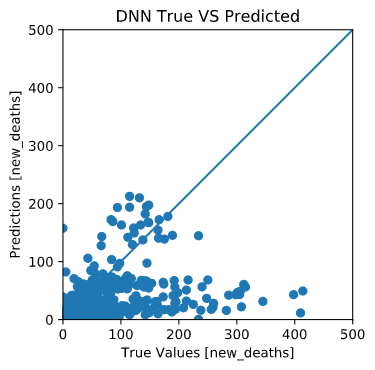
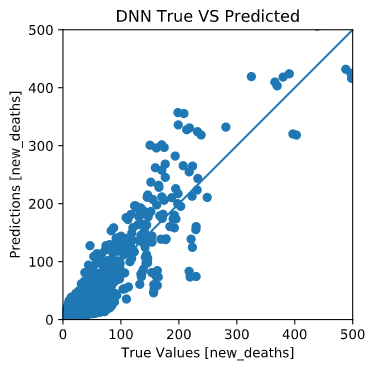
updates readme with final adjustments to supervised learning

diff --git a/README.md b/README.md
@@ -65,11 +65,11 @@ Our goal in the Supervised Learning process is to develop a regression model to 
 
 What we are trying to predict:
 
-![Country 28 Days since 4/1/2020 vs New Deaths](TrainingImages/Country28Trend.png)
+![Country 27 Days since 4/1/2020 vs New Deaths](TrainingImages/Country27Trend.png)
 
-![Country 81 Days since 4/1/2020 vs New Deaths](TrainingImages/Country81Trend.png)
+![Country 75 Days since 4/1/2020 vs New Deaths](TrainingImages/Country75Trend.png)
 
-![Country 200 Days since 4/1/2020 vs New Deaths](TrainingImages/Country200Trend.png)
+![Country 150 Days since 4/1/2020 vs New Deaths](TrainingImages/Country150Trend.png)
 
 We split our data by 80/20 for training and testing respectively. This yields 167 countries for training and 42 countries for testing. 
 
@@ -123,9 +123,9 @@ Finally, let us examine the difference between predicted and real results. First
 |---|---|
 |![Linear True Vs Predicted](ResultsImages/LinearTrueVsPredicted.png)|![DNN True Vs Predicted](ResultsImages/DNNTrueVsPredicted.png)|
 |![Linear Prediction Error](ResultsImages/LinearPredictionError.png)|![DNN Prediction Error](ResultsImages/DNNPredictionError.png)|
-|![Linear 57 Prediction](ResultsImages/Linear57Prediction.png)|![DNN 57 Prediction](ResultsImages/DNN57Prediction.png)|
-|![Linear 137 Prediction](ResultsImages/Linear137Prediction.png)|![DNN 137 Prediction](ResultsImages/DNN137Prediction.png)|
-|![Linear 150 Prediction](ResultsImages/Linear150Prediction.png)|![DNN 150 Prediction](ResultsImages/DNN150Prediction.png)|
+|![Linear 22 Prediction](ResultsImages/Linear22Prediction.png)|![DNN 22 Prediction](ResultsImages/DNN22Prediction.png)|
+|![Linear 39 Prediction](ResultsImages/Linear39Prediction.png)|![DNN 39 Prediction](ResultsImages/DNN39Prediction.png)|
+|![Linear 118 Prediction](ResultsImages/Linear118Prediction.png)|![DNN 118 Prediction](ResultsImages/DNN118Prediction.png)|
 
 ### Discussion
 After an observation of the predicted vs real results, it becomes quite clear that the model is thrown off by the noise in data. New deaths spike on various days depending on the country and how deaths are reported. Applying a uniform or gaussian smoothing to our dataset would serve to yield a more consistent and generalized model. 
